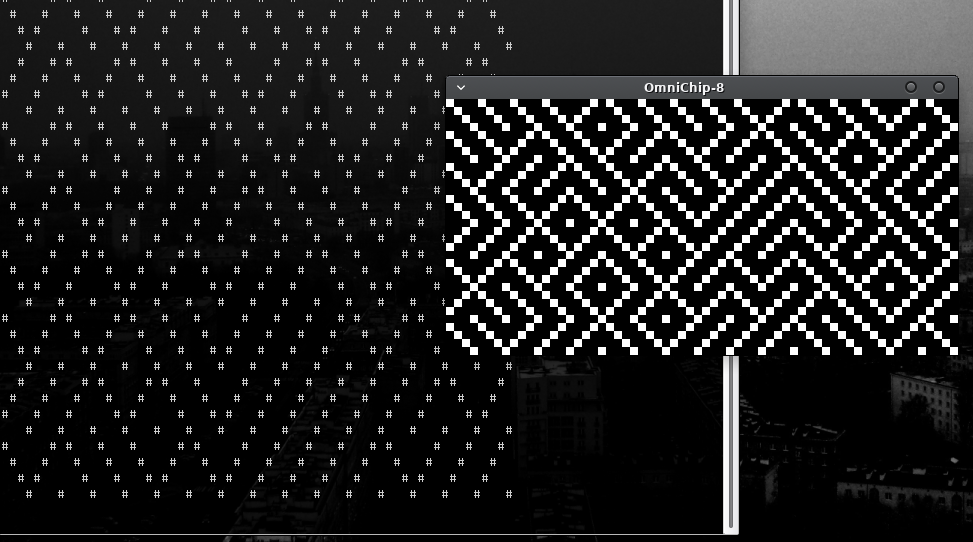
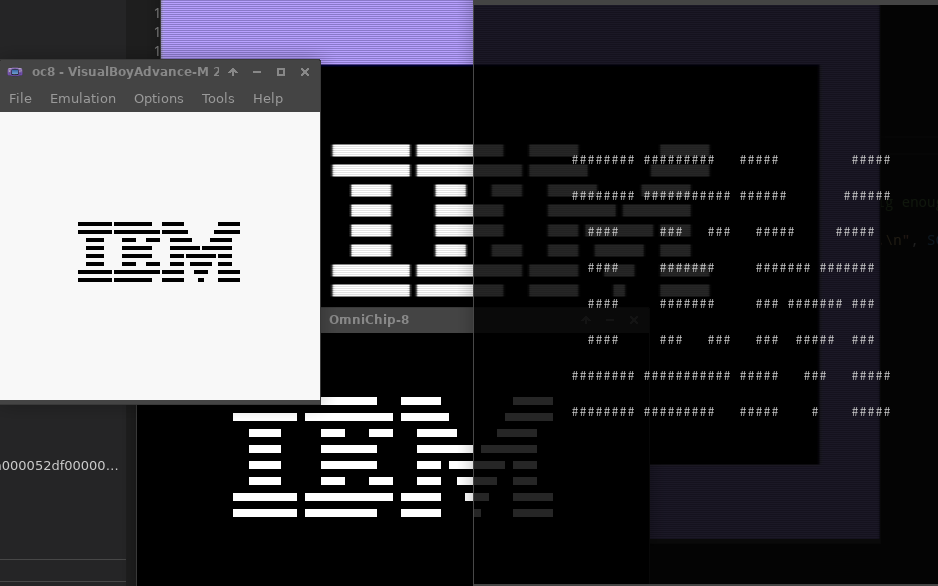
Update OmniChip8 section and screenshot

diff --git a/README.md b/README.md
@@ -25,13 +25,13 @@ Language: C++
 ___
 ### OmniChip-8
 
-A CHIP-8 emulator with the goal of being compatible with as many systems as possible
+A CHIP-8 emulator with the goal of being compatible with as many systems as possible. It currently supports SDL, (n)curses, GameBoy, and Commodore 64.
 
 Language: C (C89)
 
 [GitHub repo](https://github.com/eggbertx/OmniChip8)
 
-![OmniChip-8's SDL and ncurses builds running MAZE](omnichip8.png)
+![OmniChip-8 running IBM on different platforms](omnichip8.png)
 
 
 ___
